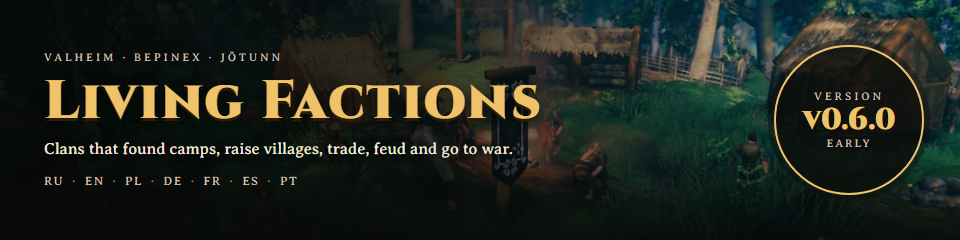
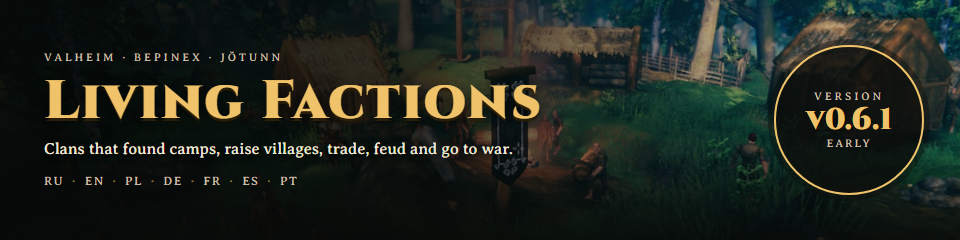
Living Factions 0.6.1: world backups take the factions back too

Changed region(s): [[0.8125, 0.4375, 0.9375, 0.5542]]

diff --git a/src/LivingFactions/SimHost.cs b/src/LivingFactions/SimHost.cs
@@ -1,6 +1,7 @@
 using System;
 using System.Collections.Generic;
 using System.IO;
+using System.IO.Compression;
 using LivingFactions.Core;
 using Newtonsoft.Json;
 using UnityEngine;
@@ -56,6 +57,11 @@ namespace LivingFactions
             }
             Sim.AdvanceTo(WorldDay + Sim.State.ClockOffset, 6);
             Net.HostUpdate();
+            if (_restoredNote != null && MessageHud.instance != null && Player.m_localPlayer != null)
+            {
+                MessageHud.instance.ShowMessage(MessageHud.MessageType.Center, Texts.Get("msg_state_restored", _restoredNote));
+                _restoredNote = null;
+            }
         }
 
         /// <summary>A guest's copy of the host's state: read like the real thing, never run forward.</summary>
@@ -92,6 +98,7 @@ namespace LivingFactions
                 {
                     state = JsonConvert.DeserializeObject<WorldState>(File.ReadAllText(_savePath));
                     Plugin.Log.LogInfo("Loaded faction state: " + state.Factions.Count + " factions, " + state.Settlements.Count + " settlements, day " + state.Day.ToString("0.0"));
+                    state = MatchWorld(state);
                 }
                 catch (Exception e)
                 {
@@ -126,6 +133,87 @@ namespace LivingFactions
             }
         }
 
+        // ------------------------------------------------------------------ world backups
+
+        private const int SnapshotsKept = 60;
+        private static string _restoredNote;
+
+        private static string HistoryDir
+        {
+            get { return Path.Combine(Path.Combine(DataDir, "history"), Path.GetFileNameWithoutExtension(_savePath)); }
+        }
+
+        /// <summary>
+        /// The faction state is kept beside the world, not inside it, so restoring a backup of the world
+        /// leaves it in the future: days ahead, with deaths and deeds the world no longer has. Every save
+        /// therefore also keeps a copy stamped with the world's clock, and a world that loads with a clock
+        /// behind the state gets the latest copy that is not ahead of it.
+        /// </summary>
+        private static WorldState MatchWorld(WorldState state)
+        {
+            double now = ZNet.instance.GetTimeSeconds();
+            if (state.SavedAtTime <= now + 60.0) return state;
+            string best = null;
+            long bestTime = -1;
+            if (Directory.Exists(HistoryDir))
+            {
+                foreach (string file in Directory.GetFiles(HistoryDir, "*.json.gz"))
+                {
+                    long time;
+                    string stamp = Path.GetFileName(file).Split('.')[0];
+                    if (!long.TryParse(stamp, out time) || time > now + 60.0 || time <= bestTime) continue;
+                    bestTime = time;
+                    best = file;
+                }
+            }
+            if (best == null)
+            {
+                Plugin.Log.LogWarning("The world's clock (" + now.ToString("0") + " s) is behind the faction state (" + state.SavedAtTime.ToString("0") + " s), as after restoring a backup, but no earlier copy of the state is kept; going on with this one.");
+                return state;
+            }
+            try
+            {
+                using (FileStream fs = File.OpenRead(best))
+                using (GZipStream gz = new GZipStream(fs, CompressionMode.Decompress))
+                using (StreamReader reader = new StreamReader(gz))
+                {
+                    WorldState older = JsonConvert.DeserializeObject<WorldState>(reader.ReadToEnd());
+                    Plugin.Log.LogInfo("The world was restored from a backup (clock " + now.ToString("0") + " s, state " + state.SavedAtTime.ToString("0") + " s): faction state of " + bestTime + " s taken back, day " + older.Day.ToString("0.0"));
+                    // The newer state is not thrown away: it stays beside the save under its own name.
+                    File.Copy(_savePath, _savePath + ".before-restore-" + DateTime.Now.ToString("yyyyMMdd-HHmmss"), true);
+                    _restoredNote = older.Day.ToString("0");
+                    return older;
+                }
+            }
+            catch (Exception e)
+            {
+                Plugin.Log.LogError("Could not read the kept copy " + best + ": " + e.Message);
+                return state;
+            }
+        }
+
+        private static void KeepCopy(string json, double time)
+        {
+            try
+            {
+                Directory.CreateDirectory(HistoryDir);
+                string file = Path.Combine(HistoryDir, ((long)time).ToString("D12") + ".json.gz");
+                using (FileStream fs = File.Create(file))
+                using (GZipStream gz = new GZipStream(fs, CompressionMode.Compress))
+                using (StreamWriter writer = new StreamWriter(gz))
+                {
+                    writer.Write(json);
+                }
+                string[] all = Directory.GetFiles(HistoryDir, "*.json.gz");
+                Array.Sort(all, StringComparer.Ordinal);
+                for (int i = 0; i < all.Length - SnapshotsKept; i++) File.Delete(all[i]);
+            }
+            catch (Exception e)
+            {
+                Plugin.Log.LogWarning("Could not keep a copy of the faction state: " + e.Message);
+            }
+        }
+
         private static int ResolveLanguage()
         {
             return Texts.Resolve(ModConfig.Language.Value, Localization.instance != null ? Localization.instance.GetSelectedLanguage() : null);
@@ -143,7 +231,10 @@ namespace LivingFactions
             try
             {
                 string tmp = _savePath + ".tmp";
-                File.WriteAllText(tmp, JsonConvert.SerializeObject(Sim.State, Formatting.Indented));
+                Sim.State.SavedAtTime = ZNet.instance != null ? ZNet.instance.GetTimeSeconds() : Sim.State.SavedAtTime;
+                string json = JsonConvert.SerializeObject(Sim.State, Formatting.Indented);
+                File.WriteAllText(tmp, json);
+                KeepCopy(json, Sim.State.SavedAtTime);
                 if (File.Exists(_savePath)) File.Copy(_savePath, _savePath + ".bak", true);
                 File.Copy(tmp, _savePath, true);
                 File.Delete(tmp);

diff --git a/src/LivingFactions.Core/Texts.cs b/src/LivingFactions.Core/Texts.cs
@@ -311,6 +311,7 @@ namespace LivingFactions.Core
             { "r_hunt_poor", new[] { "Our coffer is too thin for that bounty now. Come back later.", "Сейчас наша казна слишком пуста для такой награды. Приходи позже." } },
             { "r_hunt_none", new[] { "There is no beast left we would pay to see dead.", "Не осталось зверя, за чью смерть мы бы заплатили." } },
             { "msg_boss_slain", new[] { "{0} has fallen. Every faction will hear of it.", "{0} пал. Об этом узнают все фракции." } },
+            { "msg_state_restored", new[] { "The world went back to an earlier save, and the factions went back with it (day {0}).", "Мир вернулся к прежнему сохранению, и фракции вернулись вместе с ним (день {0})." } },
             { "opt_felling", new[] { "Woodcutters fell trees and plant new ones", "Дровосеки рубят деревья и сажают новые" } },
             { "opt_map_zones", new[] { "Faction lands on the map", "Земли фракций на карте" } },
             { "opt_map_all", new[] { "Every settlement on the map", "Все поселения на карте" } },

diff --git a/src/LivingFactions.Core/Model.cs b/src/LivingFactions.Core/Model.cs
@@ -165,6 +165,8 @@ namespace LivingFactions.Core
         public double Day;
         /// <summary>Days the simulation runs ahead of the game clock (set when the sim starts in an old world, or by fast-forwarding).</summary>
         public double ClockOffset;
+        /// <summary>The world's own clock (seconds) when this state was saved: tells a restored world backup from the present.</summary>
+        public double SavedAtTime;
         public ulong RngState = 0x9E3779B97F4A7C15UL;
         /// <summary>Direction the first human clan settled in; the others are spread around from it.</summary>
         public float SeedAngle;

diff --git a/src/LivingFactions.Core/Texts.de.cs b/src/LivingFactions.Core/Texts.de.cs
@@ -349,6 +349,7 @@ namespace LivingFactions.Core
                 { "r_hunt_poor", "Unsere Kasse ist für diese Belohnung gerade zu leer. Komm später wieder." },
                 { "r_hunt_none", "Es gibt kein Ungeheuer mehr, für dessen Tod wir zahlen würden." },
                 { "msg_boss_slain", "{0} ist gefallen. Jede Fraktion wird davon hören." },
+                { "msg_state_restored", "Die Welt ist zu einem früheren Spielstand zurückgekehrt, und die Fraktionen mit ihr (Tag {0})." },
             };
         }
     }

diff --git a/src/LivingFactions.Core/Texts.fr.cs b/src/LivingFactions.Core/Texts.fr.cs
@@ -349,6 +349,7 @@ namespace LivingFactions.Core
                 { "r_hunt_poor", "Notre trésor est trop maigre pour cette prime en ce moment. Reviens plus tard." },
                 { "r_hunt_none", "Il ne reste aucune bête dont nous paierions la mort." },
                 { "msg_boss_slain", "{0} est tombé. Toutes les factions en entendront parler." },
+                { "msg_state_restored", "Le monde est revenu à une sauvegarde antérieure, et les factions avec lui (jour {0})." },
             };
         }
     }

diff --git a/src/LivingFactions.Core/Texts.es.cs b/src/LivingFactions.Core/Texts.es.cs
@@ -349,6 +349,7 @@ namespace LivingFactions.Core
                 { "r_hunt_poor", "Nuestras arcas están demasiado vacías para esa recompensa. Vuelve más tarde." },
                 { "r_hunt_none", "No queda ninguna bestia por cuya muerte pagaríamos." },
                 { "msg_boss_slain", "{0} ha caído. Todas las facciones lo sabrán." },
+                { "msg_state_restored", "El mundo ha vuelto a una partida anterior, y las facciones con él (día {0})." },
             };
         }
     }

diff --git a/src/LivingFactions.Core/Texts.pl.cs b/src/LivingFactions.Core/Texts.pl.cs
@@ -349,6 +349,7 @@ namespace LivingFactions.Core
                 { "r_hunt_poor", "Nasz skarbiec jest teraz zbyt pusty na taką nagrodę. Wróć później." },
                 { "r_hunt_none", "Nie ma już bestii, za której śmierć byśmy zapłacili." },
                 { "msg_boss_slain", "{0} padł. Dowie się o tym każda frakcja." },
+                { "msg_state_restored", "Świat wrócił do wcześniejszego zapisu, a frakcje razem z nim (dzień {0})." },
             };
         }
     }

diff --git a/src/LivingFactions.Core/Texts.pt.cs b/src/LivingFactions.Core/Texts.pt.cs
@@ -349,6 +349,7 @@ namespace LivingFactions.Core
                 { "r_hunt_poor", "Nossos cofres estão vazios demais para essa recompensa agora. Volte mais tarde." },
                 { "r_hunt_none", "Não resta nenhuma fera por cuja morte pagaríamos." },
                 { "msg_boss_slain", "{0} caiu. Todas as facções vão saber." },
+                { "msg_state_restored", "O mundo voltou a um salvamento anterior, e as facções com ele (dia {0})." },
             };
         }
     }

diff --git a/src/LivingFactions/Plugin.cs b/src/LivingFactions/Plugin.cs
@@ -13,7 +13,7 @@ namespace LivingFactions
     {
         public const string Guid = "alexandr.livingfactions";
         public const string ModName = "Living Factions";
-        public const string Version = "0.6.0";
+        public const string Version = "0.6.1";
 
         internal static Plugin Instance;
         internal static ManualLogSource Log;

diff --git a/README.md b/README.md
@@ -1,6 +1,6 @@
 # Living Factions
 
-![Living Factions](https://raw.githubusercontent.com/under2ker/valheim-living-factions/main/docs/store/cover.jpg?v=0.6.0)
+![Living Factions](https://raw.githubusercontent.com/under2ker/valheim-living-factions/main/docs/store/cover.jpg?v=0.6.1)
 
 A Valheim mod that adds seven NPC factions to your world. They set up camps, gather wood, stone
 and food, put up buildings one piece at a time and grow into villages and towns. They trade with
@@ -104,7 +104,7 @@ To make an alliance, talk to anyone in the settlement: the window shows your sta
 it is from the 70 an alliance needs, and each gift shows what it would earn. A gift of what they
 are short of counts double; many gifts in one day count for less.
 
-![The seven relic axes](https://raw.githubusercontent.com/under2ker/valheim-living-factions/main/docs/store/axes.jpg?v=0.6.0)
+![The seven relic axes](https://raw.githubusercontent.com/under2ker/valheim-living-factions/main/docs/store/axes.jpg?v=0.6.1)
 
 ## On screen
 
@@ -119,13 +119,13 @@ are short of counts double; many gifts in one day count for less.
 
 ## Screenshots
 
-![A Raven Clan city in the morning](https://raw.githubusercontent.com/under2ker/valheim-living-factions/main/docs/screenshots/press/city_morning.jpg?v=0.6.0)
-![The paved square of a city](https://raw.githubusercontent.com/under2ker/valheim-living-factions/main/docs/screenshots/press/city_square.jpg?v=0.6.0)
-![A village in the woods with its paths cleared](https://raw.githubusercontent.com/under2ker/valheim-living-factions/main/docs/screenshots/village_paths_0.3.4.jpg?v=0.6.0)
-![Inside the great hall](https://raw.githubusercontent.com/under2ker/valheim-living-factions/main/docs/screenshots/press/great_hall.jpg?v=0.6.0)
-![Night at the fire](https://raw.githubusercontent.com/under2ker/valheim-living-factions/main/docs/screenshots/press/night_fire.jpg?v=0.6.0)
-![Faction lands on the map](https://raw.githubusercontent.com/under2ker/valheim-living-factions/main/docs/screenshots/map_zones_0.4.2.jpg?v=0.6.0)
-![Talking to a chieftain](https://raw.githubusercontent.com/under2ker/valheim-living-factions/main/docs/screenshots/press/ui_dialog.jpg?v=0.6.0)
+![A Raven Clan city in the morning](https://raw.githubusercontent.com/under2ker/valheim-living-factions/main/docs/screenshots/press/city_morning.jpg?v=0.6.1)
+![The paved square of a city](https://raw.githubusercontent.com/under2ker/valheim-living-factions/main/docs/screenshots/press/city_square.jpg?v=0.6.1)
+![A village in the woods with its paths cleared](https://raw.githubusercontent.com/under2ker/valheim-living-factions/main/docs/screenshots/village_paths_0.3.4.jpg?v=0.6.1)
+![Inside the great hall](https://raw.githubusercontent.com/under2ker/valheim-living-factions/main/docs/screenshots/press/great_hall.jpg?v=0.6.1)
+![Night at the fire](https://raw.githubusercontent.com/under2ker/valheim-living-factions/main/docs/screenshots/press/night_fire.jpg?v=0.6.1)
+![Faction lands on the map](https://raw.githubusercontent.com/under2ker/valheim-living-factions/main/docs/screenshots/map_zones_0.4.2.jpg?v=0.6.1)
+![Talking to a chieftain](https://raw.githubusercontent.com/under2ker/valheim-living-factions/main/docs/screenshots/press/ui_dialog.jpg?v=0.6.1)
 
 ## Install
 
@@ -141,7 +141,8 @@ By hand:
 Back up your world before the first run. Settlements level the ground and place pieces.
 
 The state of the factions is saved in `BepInEx/config/LivingFactions/<world>_<uid>.json` every
-time the world saves.
+time the world saves. If you restore a backup of the
+world, the factions go back to the same point too (from 0.6.1 on).
 
 ## Settings
 

diff --git a/CHANGELOG.md b/CHANGELOG.md
@@ -1,5 +1,16 @@
 # Changelog
 
+## 0.6.1 - 2026-10-14
+- Fixed: restoring a backup of the world left the factions in the future, with the deaths, days and
+  standing of the later game (reported by a player). The faction state lives beside the world, not
+  in it, so the mod now keeps a dated copy at every save (the last 60) and, when a world loads with
+  its clock behind the state, takes back the latest copy that is not ahead of it. The newer state is
+  kept beside the save as a file of its own, and the player sees a message that the factions went
+  back with the world. Copies are kept from this version on: a backup made before updating cannot
+  be matched.
+- Checked in the game: saved the world, kept a copy of it, played on and turned the Raven Clan
+  hostile, put the copy back: the Raven Clan was friendly again and the day went back with it.
+
 ## 0.6.0 - 2026-10-14
 - Woodcutters fell real trees. Only trees at least 10 m from every building, falling away from the
   village, and only by the player who builds the settlement (one felling per tree when playing
